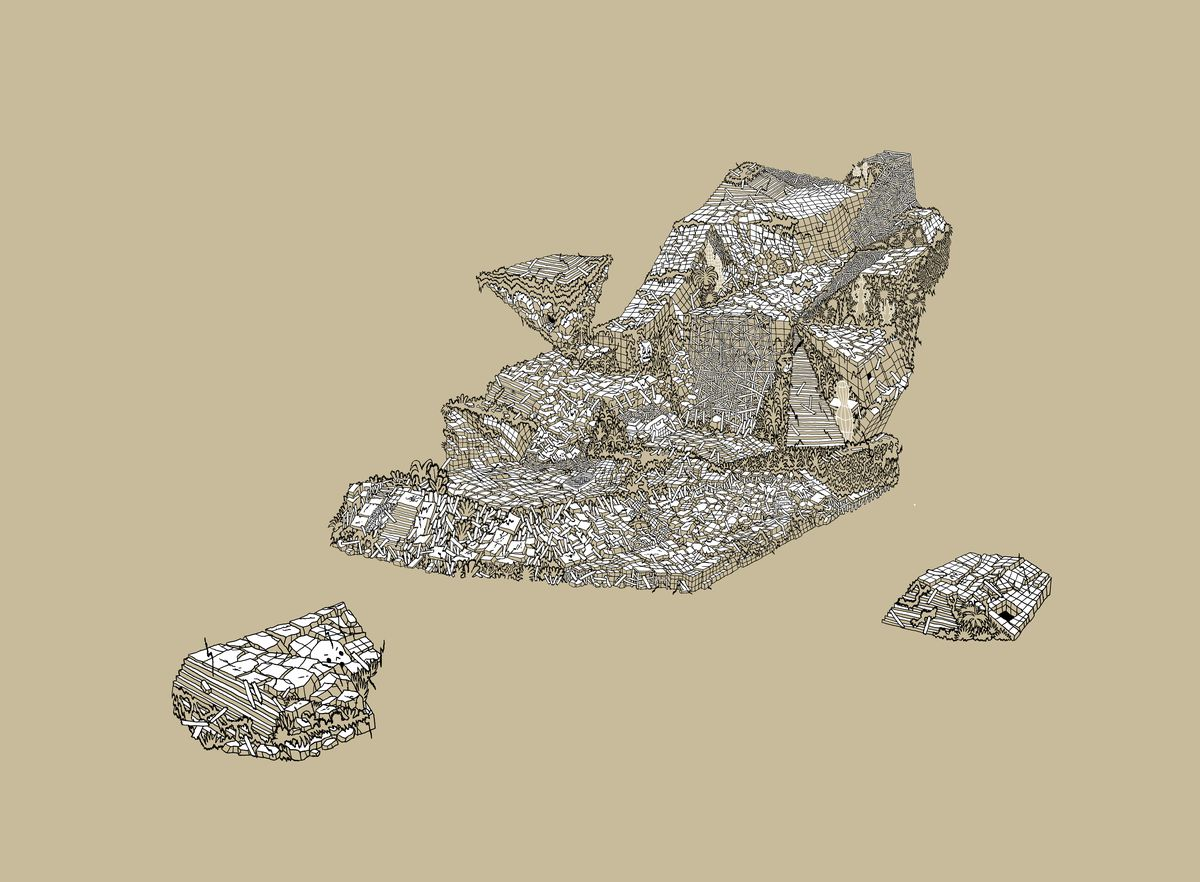
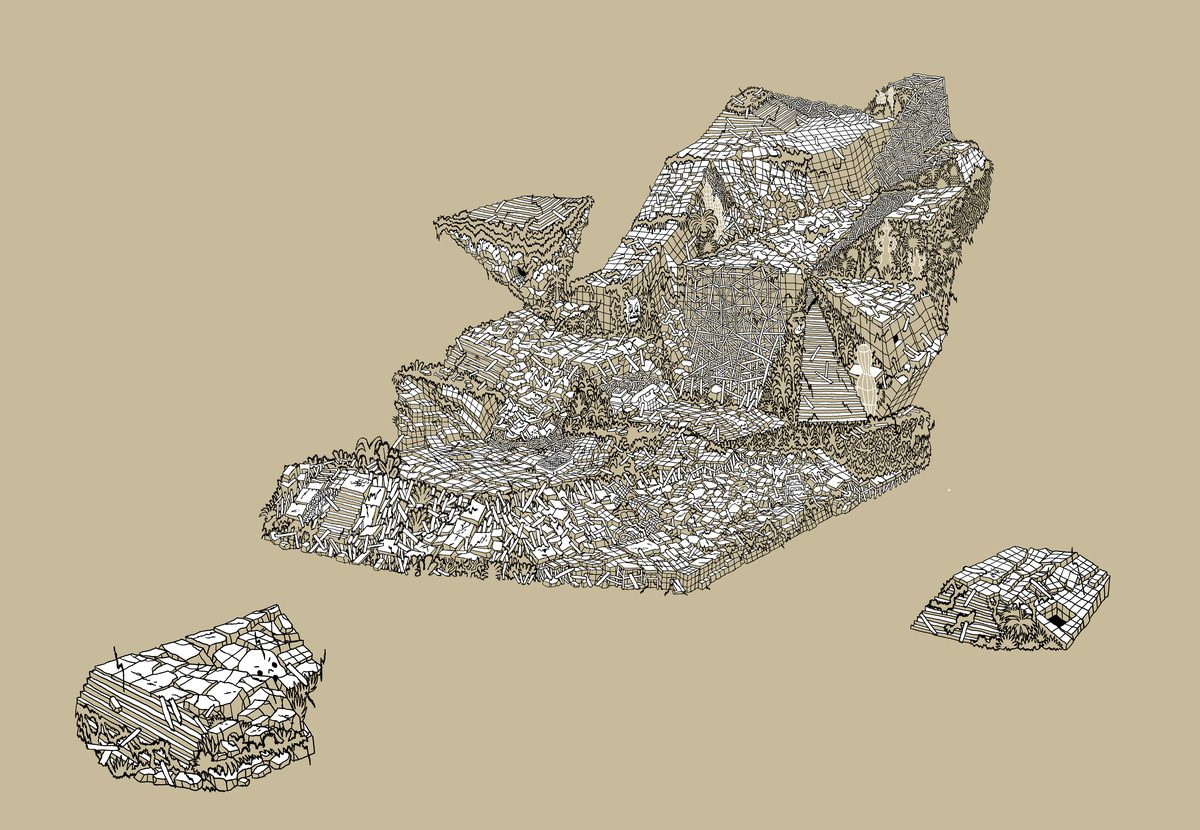
Add Saborosa Games studio website
Express app serving a static marketing site for the studio, sized for
Hostinger's Node hosting (no build step, reads process.env.PORT).

- Hero, games, studio, devlog and contact sections in one page
- Design pulled from the game's own art direction: kraft ground, hand-
  lettered yellow wordmark, ink borders, red accents
- Art is optimized copies of real assets from ../saborosa
- /api/subscribe is a validating stub that logs to stdout only

Changed region(s): [[0.0617, 0.0904, 0.8325, 0.9639], [0.74, 0.6024, 0.925, 0.7831]]

diff --git a/public/index.html b/public/index.html
@@ -67,10 +67,12 @@
     </header>
 
     <article class="game">
-      <div class="game__art">
-        <img src="/img/island.jpg" alt="Painted Isle — a hand-drawn island stage from Saborosa" width="1200" height="882" loading="lazy">
+      <figure class="game__art">
+        <img src="/img/island.jpg" alt="Painted Isle — a hand-drawn island stage from Saborosa" width="1200" height="830" loading="lazy">
         <span class="tag tag--wip">In development</span>
-      </div>
+        <img class="game__inset" src="/img/island-zones.jpg" alt="The same island as flat color zones read by the engine" width="760" height="526" loading="lazy">
+        <figcaption>Left as drawn, inset as the engine reads it — every color is a rule.</figcaption>
+      </figure>
       <div class="game__body">
         <h3>Saborosa</h3>
         <p class="game__meta">Top-down action puzzler · PC · Solo &amp; couch co-op planned</p>
@@ -136,11 +138,11 @@
           drew it moving. That's the whole pitch — and it's why our games look like nothing else
           on the shelf.
         </p>
-        <div class="stats">
-          <div class="stat"><b>2</b><span>games in flight</span></div>
-          <div class="stat"><b>1,400+</b><span>hand-drawn frames</span></div>
-          <div class="stat"><b>0</b><span>stock assets used</span></div>
-        </div>
+        <dl class="stats">
+          <div class="stat"><dt>2</dt><dd>games in flight</dd></div>
+          <div class="stat"><dt>1,400+</dt><dd>hand-drawn frames</dd></div>
+          <div class="stat"><dt>0</dt><dd>stock assets used</dd></div>
+        </dl>
       </div>
       <figure class="studio__fig">
         <img src="/img/fruit-select.png" alt="Character select screen: Juixy, Erkpa and Tom" width="647" height="477" loading="lazy">

diff --git a/public/css/style.css b/public/css/style.css
@@ -232,12 +232,31 @@ a { color: inherit; }
 
 .game__art {
   position: relative;
+  margin: 0;
   border: var(--edge);
   box-shadow: var(--shadow);
   background: var(--paper);
   overflow: hidden;
 }
-.game__art > img:first-child { width: 100%; }
+.game__art > img:first-of-type { width: 100%; }
+
+.game__inset {
+  position: absolute;
+  right: 4%; bottom: 18%;
+  width: 30%;
+  border: var(--edge);
+  box-shadow: 4px 4px 0 rgba(22, 19, 15, .35);
+  transform: rotate(2deg);
+}
+
+.game__art figcaption {
+  padding: .7rem 1rem;
+  border-top: var(--edge);
+  background: var(--paper);
+  font-size: .78rem;
+  letter-spacing: .02em;
+  color: var(--ink-soft);
+}
 
 .game__art--dungeon { background: #2b2620; }
 .game__art--dungeon > img:first-child { opacity: .95; }
@@ -300,20 +319,22 @@ a { color: inherit; }
 .lede { font-size: 1.2rem; }
 
 .stats {
-  display: flex; flex-wrap: wrap;
-  gap: clamp(1.2rem, 4vw, 3rem);
-  margin-top: 2.4rem;
+  display: grid;
+  grid-template-columns: repeat(3, 1fr);
+  gap: 1rem;
+  margin: 2.4rem 0 0;
   padding-top: 1.8rem;
   border-top: var(--edge);
 }
-.stat b {
-  display: block;
-  font-size: clamp(1.9rem, 4.5vw, 2.7rem);
+.stat dt {
+  font-size: clamp(1.6rem, 4vw, 2.5rem);
+  font-weight: 800;
   line-height: 1;
 }
-.stat span {
-  font-size: .74rem; font-weight: 700;
-  text-transform: uppercase; letter-spacing: .1em;
+.stat dd {
+  margin: .35rem 0 0;
+  font-size: .72rem; font-weight: 700;
+  text-transform: uppercase; letter-spacing: .09em;
   color: var(--ink-soft);
 }
 

diff --git a/server.js b/server.js
@@ -31,6 +31,7 @@ app.use((_req, res) => {
   res.status(404).sendFile(path.join(__dirname, 'public', '404.html'));
 });
 
-app.listen(PORT, () => {
-  console.log(`Saborosa Games running at http://localhost:${PORT}`);
+// Bind on all interfaces — Hostinger proxies to the app over the container network.
+app.listen(PORT, '0.0.0.0', () => {
+  console.log(`Saborosa Games running on port ${PORT}`);
 });

diff --git a/README.md b/README.md
@@ -1,0 +1,69 @@
+# Saborosa Games — studio website
+
+Mockup marketing site for the studio, built as a plain Node.js + Express app so it
+drops straight onto Hostinger's Node hosting.
+
+## Run locally
+
+```bash
+npm install
+npm start          # http://localhost:3000
+npm run dev        # same, with --watch reload
+```
+
+Built and tested on **Node v20.19.4** (npm 11.6.0). `package.json` declares `engines: node >=18`.
+
+## Layout
+
+```
+server.js            Express: static hosting, /api/subscribe stub, /healthz, 404
+public/
+  index.html         The whole site — hero, games, studio, devlog, contact
+  404.html
+  css/style.css      Hand-drawn ink & kraft design system (CSS variables at the top)
+  js/main.js         Signup form handling, footer year
+  img/               Art pulled from the game repo, downscaled for web
+```
+
+No build step, no bundler, no framework — edit the files and reload.
+
+## Art
+
+Images are optimized copies of real assets from `../saborosa`:
+
+| File | Source | Used for |
+|---|---|---|
+| `title-saborosa.png` | `assets/intro-title.png` | Hero wordmark |
+| `band-doodles.jpg` | `assets/intro-bg.jpg` | Scrolling hero backdrop |
+| `island.jpg` | `assets/cor-saborosa-fundo-fim-island-01-combined.png` | Saborosa card |
+| `island-zones.jpg` | `assets/saborosa-fundo-base-V2.png` | Color-zone inset |
+| `dungeon-bg.jpg` | `assets-v2/saborosa-dungeon-fundo-novo.png` | Flying Dungeon card |
+| `plane-*.png` | `assets-v2/flying-dungeon/character-sheets/` | Floating planes, stickers |
+| `fruit-select.png` | `assets/fruit-select-04-low.png` | Studio section |
+
+Regenerate them by re-running the downscale step against the game repo if the source art changes.
+
+## Deploy to Hostinger
+
+In hPanel → **Websites → Node.js app**:
+
+| Setting | Value |
+|---|---|
+| Package manager | `npm` |
+| Entry file | `server.js` |
+| Install command | `npm install` |
+| Build command | *(leave empty — there is no build step)* |
+| Output directory | *(leave empty — this is a server app, not a static build)* |
+| Node version | 18 or newer (20 recommended) |
+
+The app reads `process.env.PORT` and binds `0.0.0.0`, which is what Hostinger's proxy expects.
+Don't hardcode a port. `GET /healthz` returns `ok` for uptime checks.
+
+## Still mocked up
+
+- Devlog posts are placeholder cards linking to `#` — no CMS or post pages yet.
+- Store links ("Wishlist soon", "Play on itch.io") point at `#contact`; swap in real URLs.
+- Footer social links are placeholders.
+- `POST /api/subscribe` validates the address and logs it to stdout. It does **not**
+  persist or send anything — wire it to Mailchimp/Buttondown/a database before launch.
+- `hello@saborosa.games` is invented copy; replace with the real inbox.
